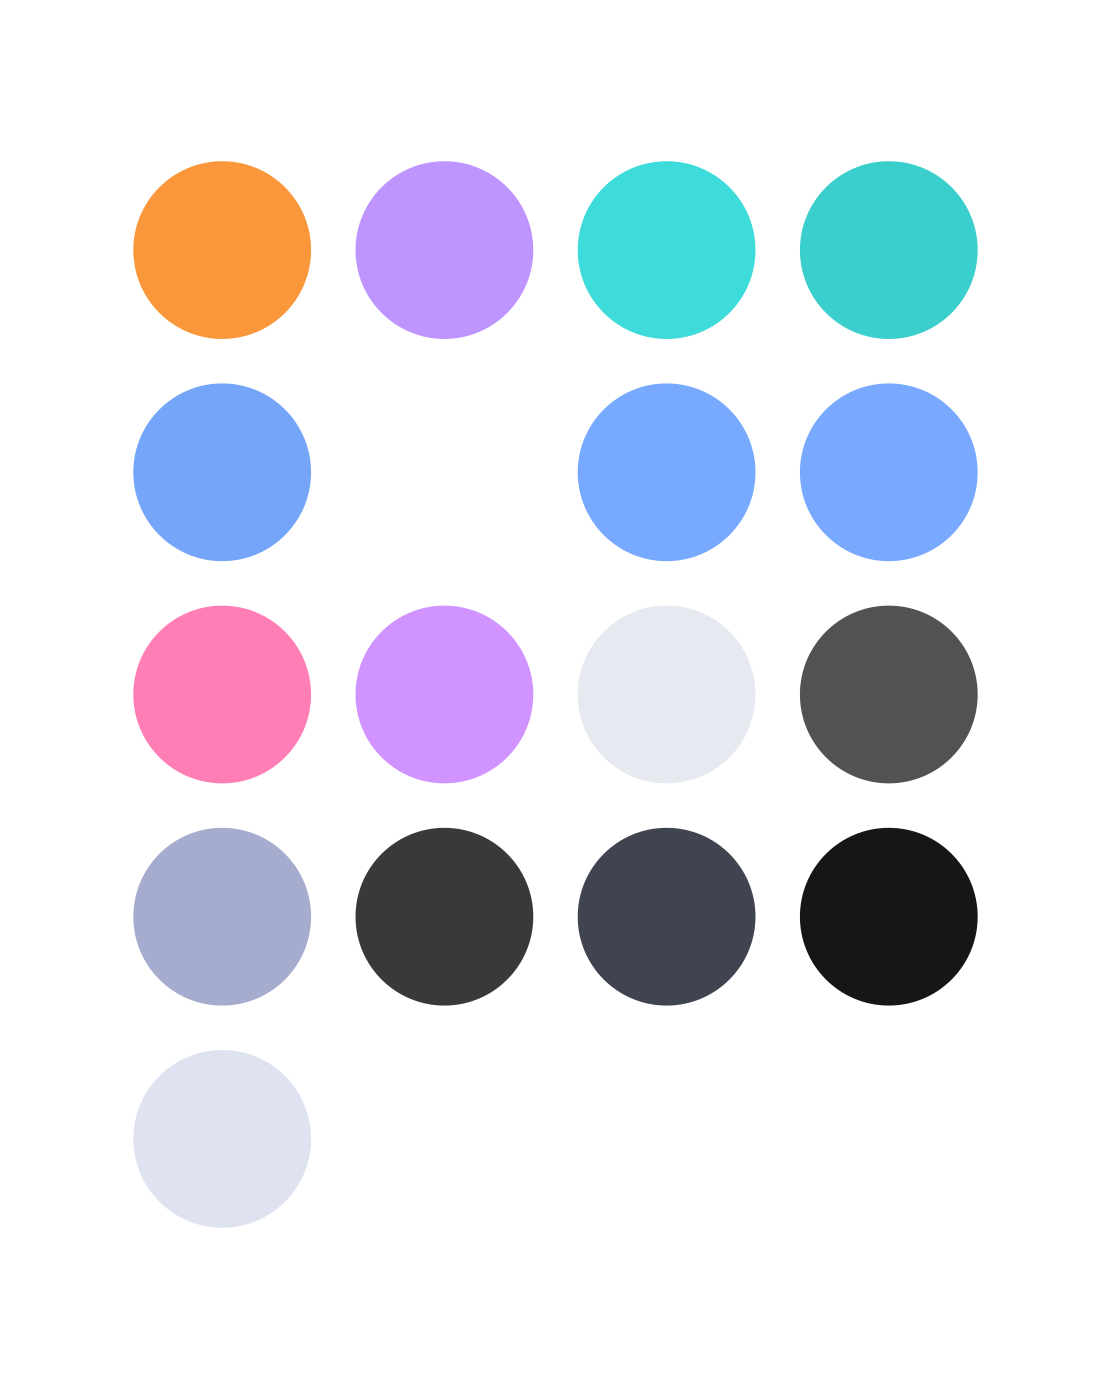
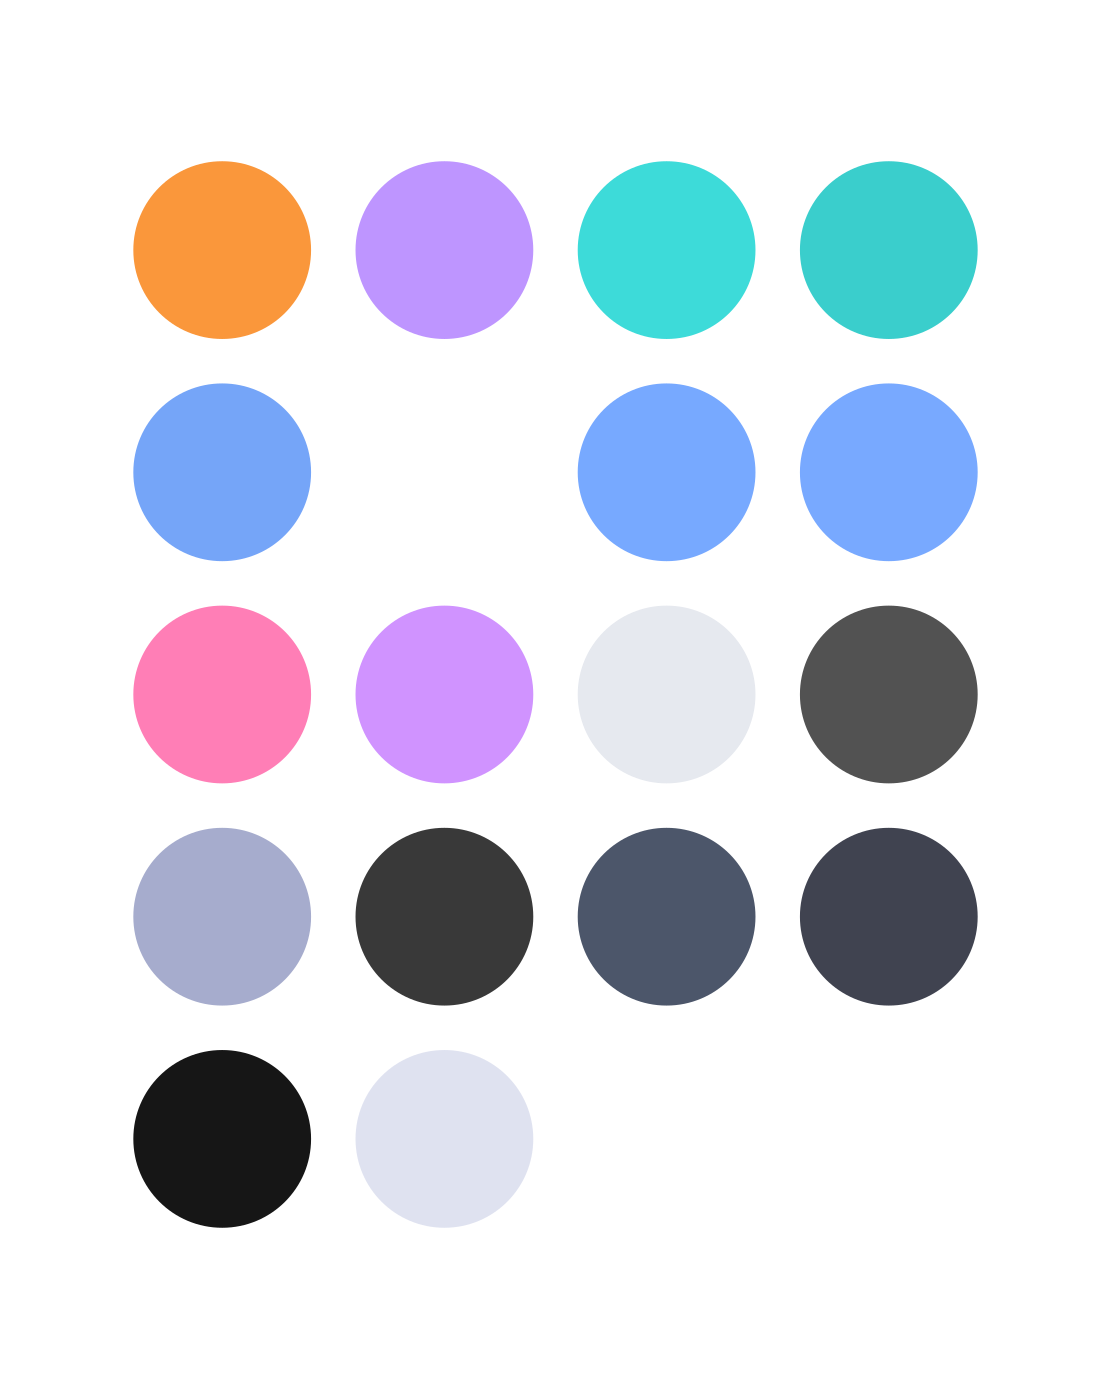
Improves theme drop feedback
Enhances the visual feedback for drag and drop operations across the theme.

This is achieved by replacing a dark bluish gray color with a semi-transparent teal green for drop backgrounds and borders, creating a clearer visual indication of the drop target.

Additionally, replaces `undefined` colors with `#4c566a` in the theme files.

Changed region(s): [[0.1224, 0.743, 0.4896, 0.8978], [0.5203, 0.5882, 0.8875, 0.743]]

diff --git a/src/theme.js b/src/theme.js
@@ -14,6 +14,7 @@ const base = {
 		darkerGray: '#525252',
 		gray: '#a6accd',
 		darkBluishGray: '#393939',
+		darkBluishGrayBrighter: '#4c566a',
 		focus: '#404350',
 		bg: '#161616',
 		selection: '#818cc440',
@@ -138,7 +139,7 @@ function schema({ colors, styles }) {
       "editorBracketMatch.background": "${colors.transparent}",
       "editorCodeLens.foreground": "${colors.lightGray}",
       "editorError.foreground": "${colors.hotRed}",
-      "editorGroup.dropBackground": "${colors.darkBluishGrayBrighter}80",
+      "editorGroup.dropBackground": "${colors.tealGreen}20",
       "editorGroupHeader.noTabsBackground": "${colors.bg}",
       "editorGutter.background": "${colors.bg}",
       "editorGutter.commentRangeForeground": "${colors.lightGray}",
@@ -320,12 +321,15 @@ function schema({ colors, styles }) {
       "diffEditor.diagonalFill": "${colors.lightGray}33",
       "dropdown.foreground": "${colors.lightGray}",
       "editorGroup.dropBackground": "${colors.tealGreen}20",
-      "panel.dropBorder": "${colors.tealGreen}20",
       "panelSection.dropBackground": "${colors.tealGreen}20",
-      "sideBar.dropBackground": "${colors.tealGreen}20",
       "activityBar.dropBorder": "${colors.tealGreen}20",
+      "list.dropBetweenBackground": "${colors.tealGreen}20",
+      "terminal.dropBackground": "${colors.tealGreen}20",
+      "activityBarTop.dropBorder": "${colors.tealGreen}20",
       "list.dropBackground": "${colors.tealGreen}20",
-      "tab.dragAndDropBorder": "${colors.tealGreen}20",
+      "sideBar.dropBackground": "${colors.tealGreen}20",
+      "panel.dropBackground": "${colors.tealGreen}20",
+      "editorGroup.dropIntoPromptBackground": "${colors.tealGreen}33",
       "errorForeground": "${colors.hotRed}",
       "extensionBadge.remoteBackground": "${colors.focus}",
       "extensionBadge.remoteForeground": "${colors.lightGray}",
@@ -351,7 +355,7 @@ function schema({ colors, styles }) {
       "inputValidation.infoBackground": "${colors.darkBluishGray}",
       "inputValidation.warningBackground": "${colors.darkBluishGray}",
       "list.deemphasizedForeground": "${colors.darkerGray}",
-      "list.dropBackground": "${colors.darkBluishGray}",
+      "list.dropBackground": "${colors.tealGreen}20",
       "list.filterMatchBackground": "${colors.lowerBlue}60",
       "list.focusOutline": "${colors.transparent}",
       "list.invalidItemForeground": "${colors.brightYellow}",
@@ -413,7 +417,7 @@ function schema({ colors, styles }) {
       "panel.background": "${colors.bg}",
       "panel.dropBorder": "${colors.lightGray}",
       "panelSection.border": "${colors.bg}",
-      "panelSection.dropBackground": "${colors.darkBluishGrayBrighter}80",
+      "panelSection.dropBackground": "${colors.tealGreen}20",
       "panelSectionHeader.background": "${colors.focus}",
       "panelTitle.activeBorder": "${colors.lightGray}",
       "panelTitle.inactiveForeground": "${colors.lightGray}99",
@@ -454,7 +458,7 @@ function schema({ colors, styles }) {
       "settings.textInputBackground": "${colors.white}05",
       "settings.textInputBorder": "${colors.white}10",
       "settings.textInputForeground": "${colors.lightGray}",
-      "sideBar.dropBackground": "${colors.darkBluishGrayBrighter}80",
+      "sideBar.dropBackground": "${colors.tealGreen}20",
       "panel.background": "${colors.bg}",
       "panelTitle.activeBorder": "${colors.lightGray}",
       "panelTitle.activeForeground": "${colors.lightGray}",
